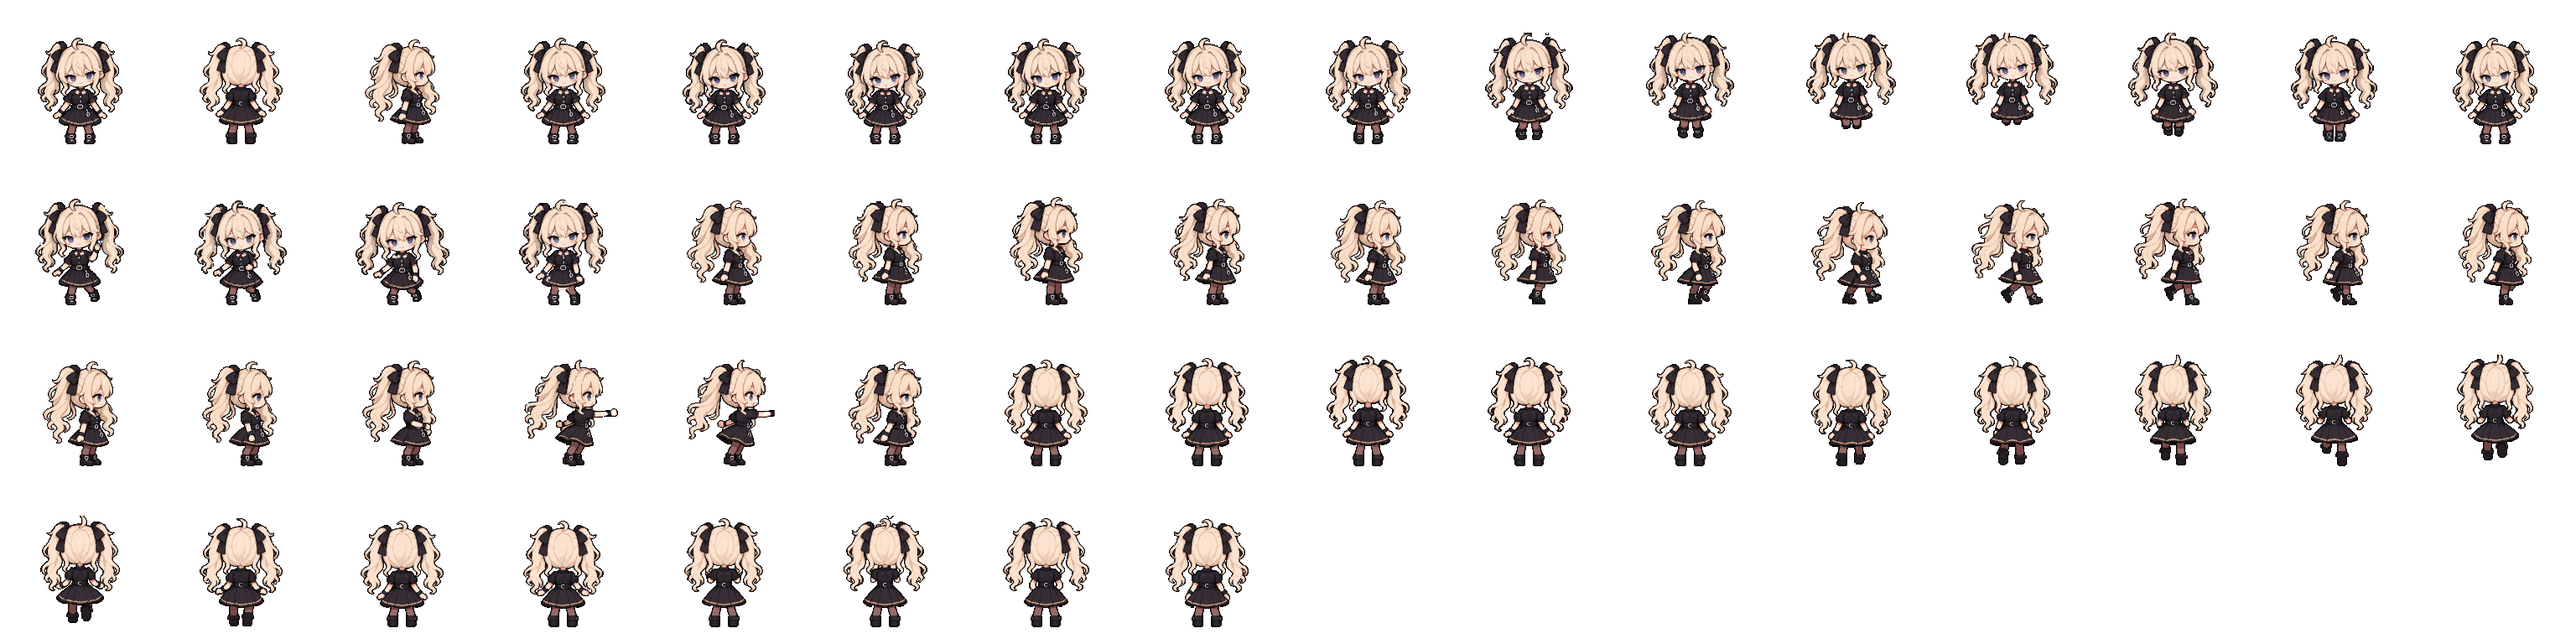
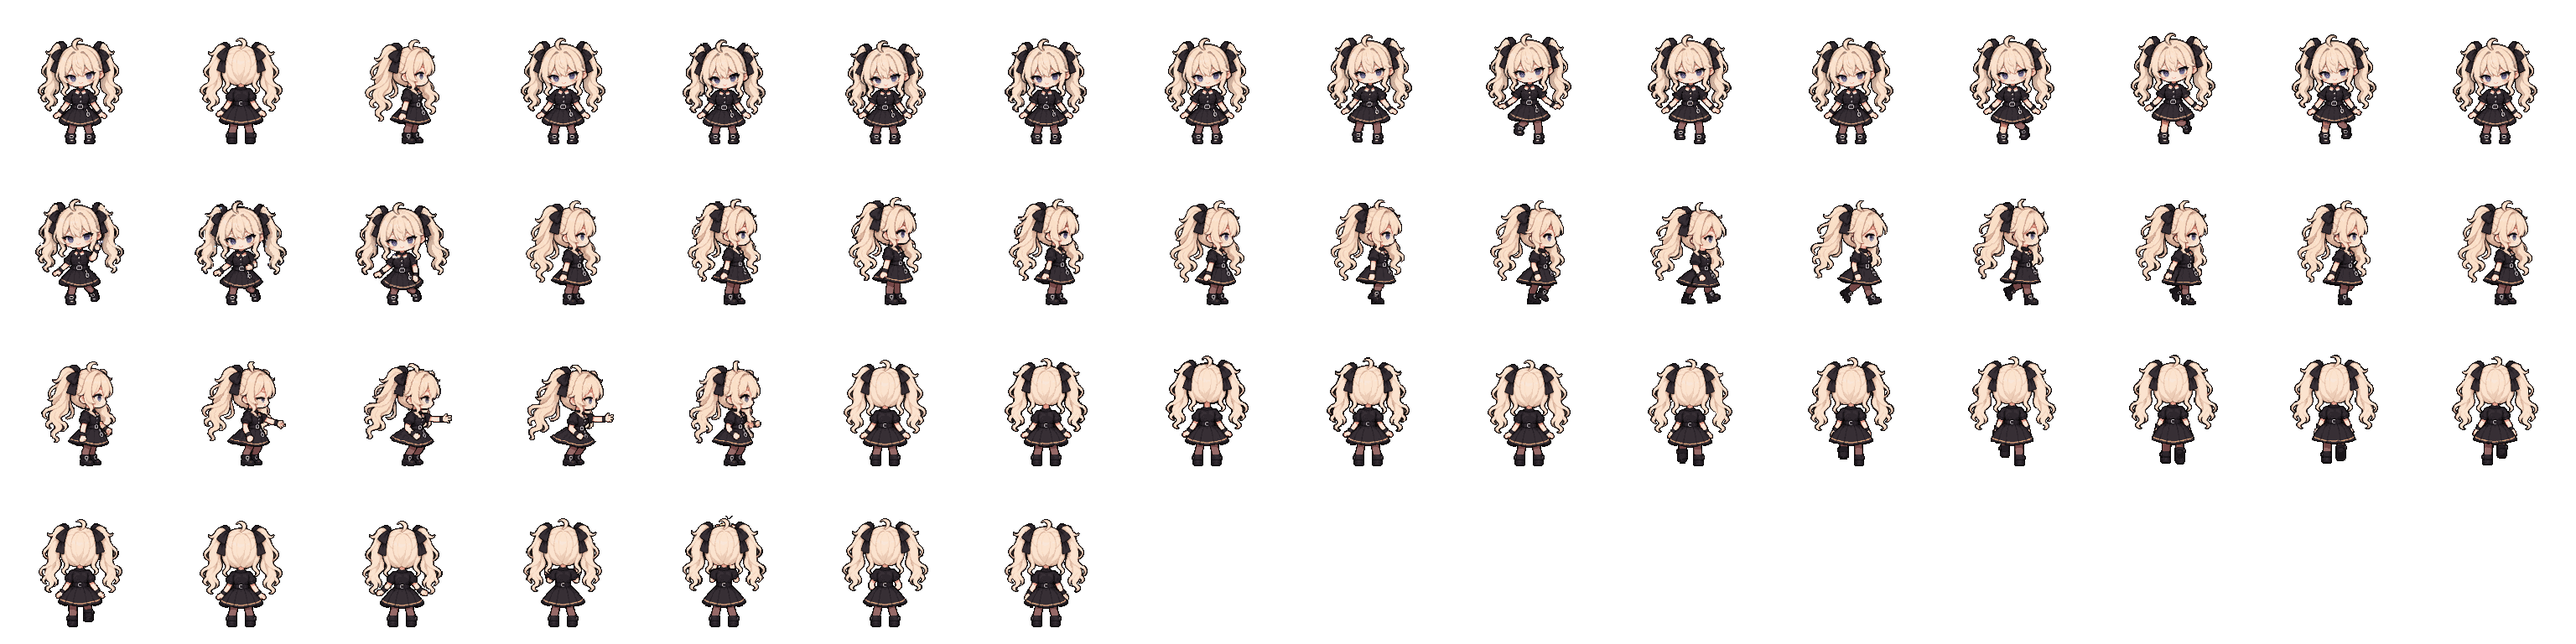
格洛克高清动画返修：正背面走路改为两脚交替，侧面攻击手部干净
- 正面：左脚抬步、右脚抬步两段各取4帧拼成一个循环（单段只会抬一只脚）
- 背面：重抽后选两脚交替最清楚的一版
- 侧面攻击：重抽空手无特效版；构建清理把伸出的浅色手当白色拖影删掉的问题修正（白色判定饱和度<0.09，皮肤>=0.13）
- build_girls_hd.py 支持多段拼接 clip

Claude-Session: https://claude.ai/code/session_01RfUcQPqX1PECm3kqWuT5kH

diff --git a/tools/build_girls_hd.py b/tools/build_girls_hd.py
@@ -1,7 +1,8 @@
 # Build web/assets/girls_hd.png + girls_hd.json: 192px hero frames (k=2, drawn at the same world size as the 96px
 # atlas, twice the detail). Girls listed here override their row in girls.json; the rest keep the 96px frames.
 # usage: build_girls_hd.py <work dir with base/{front,back,side}_<cid>.png and out/<cid>/*.png> [clips.json]
-# clips.json: {"<cid>": {"idle_s": ["a_idle-s", [0,1,2,3]], ...}}  (frame n repeats frame 0, so a loop is 0..n-1)
+# clips.json: {"<cid>": {"idle_s": ["a_idle-s", [0,1,2,3]], "run_s": [["l", [0,2,4,6]], ["r", [0,2,4,6]]], ...}}
+# (frame n repeats frame 0, so a loop is 0..n-1)
 import json, os, sys
 import numpy as np
 from PIL import Image
@@ -25,7 +26,7 @@ def snap(img, pal_lab, pal_rgb, base_a, kind):
     if kind == 'idle': m &= ndimage.binary_dilation(body0, iterations=6)
     if kind == 'atk':
         near = ndimage.binary_dilation(body0, iterations=6); hsv = rgb2hsv(a[..., :3])
-        m &= ~(~near & (hsv[..., 2] > 0.8) & (hsv[..., 1] < 0.18))
+        m &= ~(~near & (hsv[..., 2] > 0.8) & (hsv[..., 1] < 0.09))  # her pale skin is >= 0.13
     px = a[..., :3][m].astype(np.float64)
     L = color.rgb2lab(px[None] / 255)[0]
     d = ((L[:, None, :] - pal_lab[None]) ** 2).sum(-1)
@@ -62,9 +63,11 @@ for n, clips in CLIPS.items():
     i0 = len(cells); cells += [base['front'], base['back'], base['side']]
     meta['frames'][n] = {'front': i0, 'back': i0 + 1, 'side': i0 + 2}
     meta['clips'][n] = {}
-    for clip, (src, idx) in clips.items():
+    for clip, spec in clips.items():
         ba = np.array(base[VIEW[clip[-1]]])[..., 3]
-        new = [snap(Image.open(f'{WORK}/out/{n}/{src}_{i}.png'), pal_lab, pal_rgb, ba, clip[:-2]) for i in idx]
+        # a clip is one [src, frames] or a list of them spliced (e.g. a left step clip then a right step clip)
+        segs = spec if isinstance(spec[0], list) else [spec]
+        new = [snap(Image.open(f'{WORK}/out/{n}/{src}_{i}.png'), pal_lab, pal_rgb, ba, clip[:-2]) for src, idx in segs for i in idx]
         meta['clips'][n][clip] = list(range(len(cells), len(cells) + len(new))); cells += new
 pos = lambda i: [(i % PER) * C, (i // PER) * C]
 atlas = Image.new('RGBA', (min(len(cells), PER) * C, ((len(cells) + PER - 1) // PER) * C), (0, 0, 0, 0))
